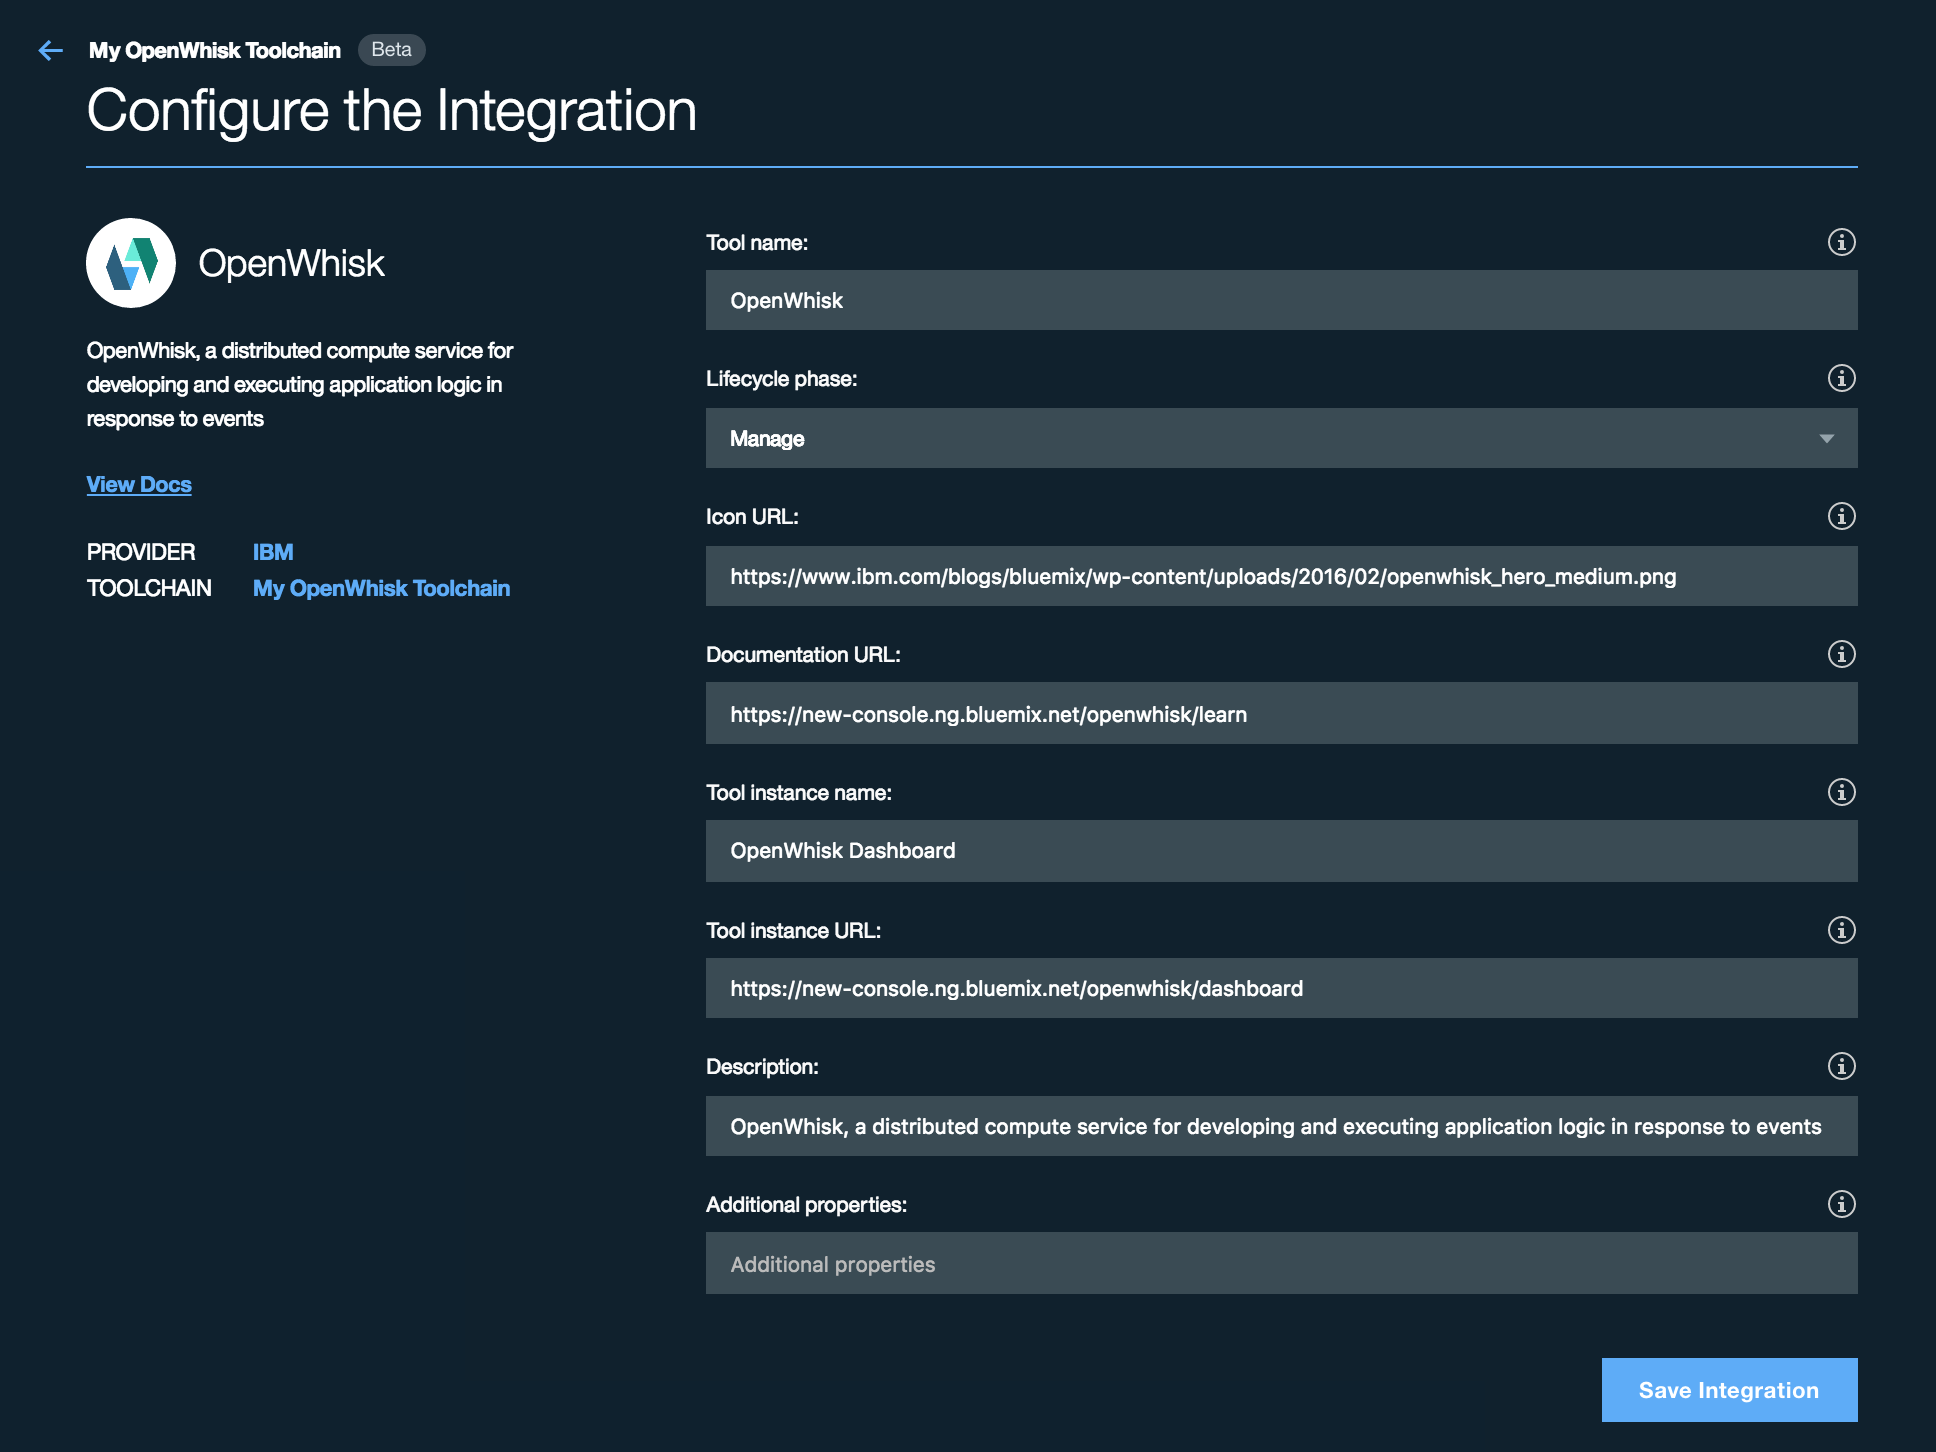
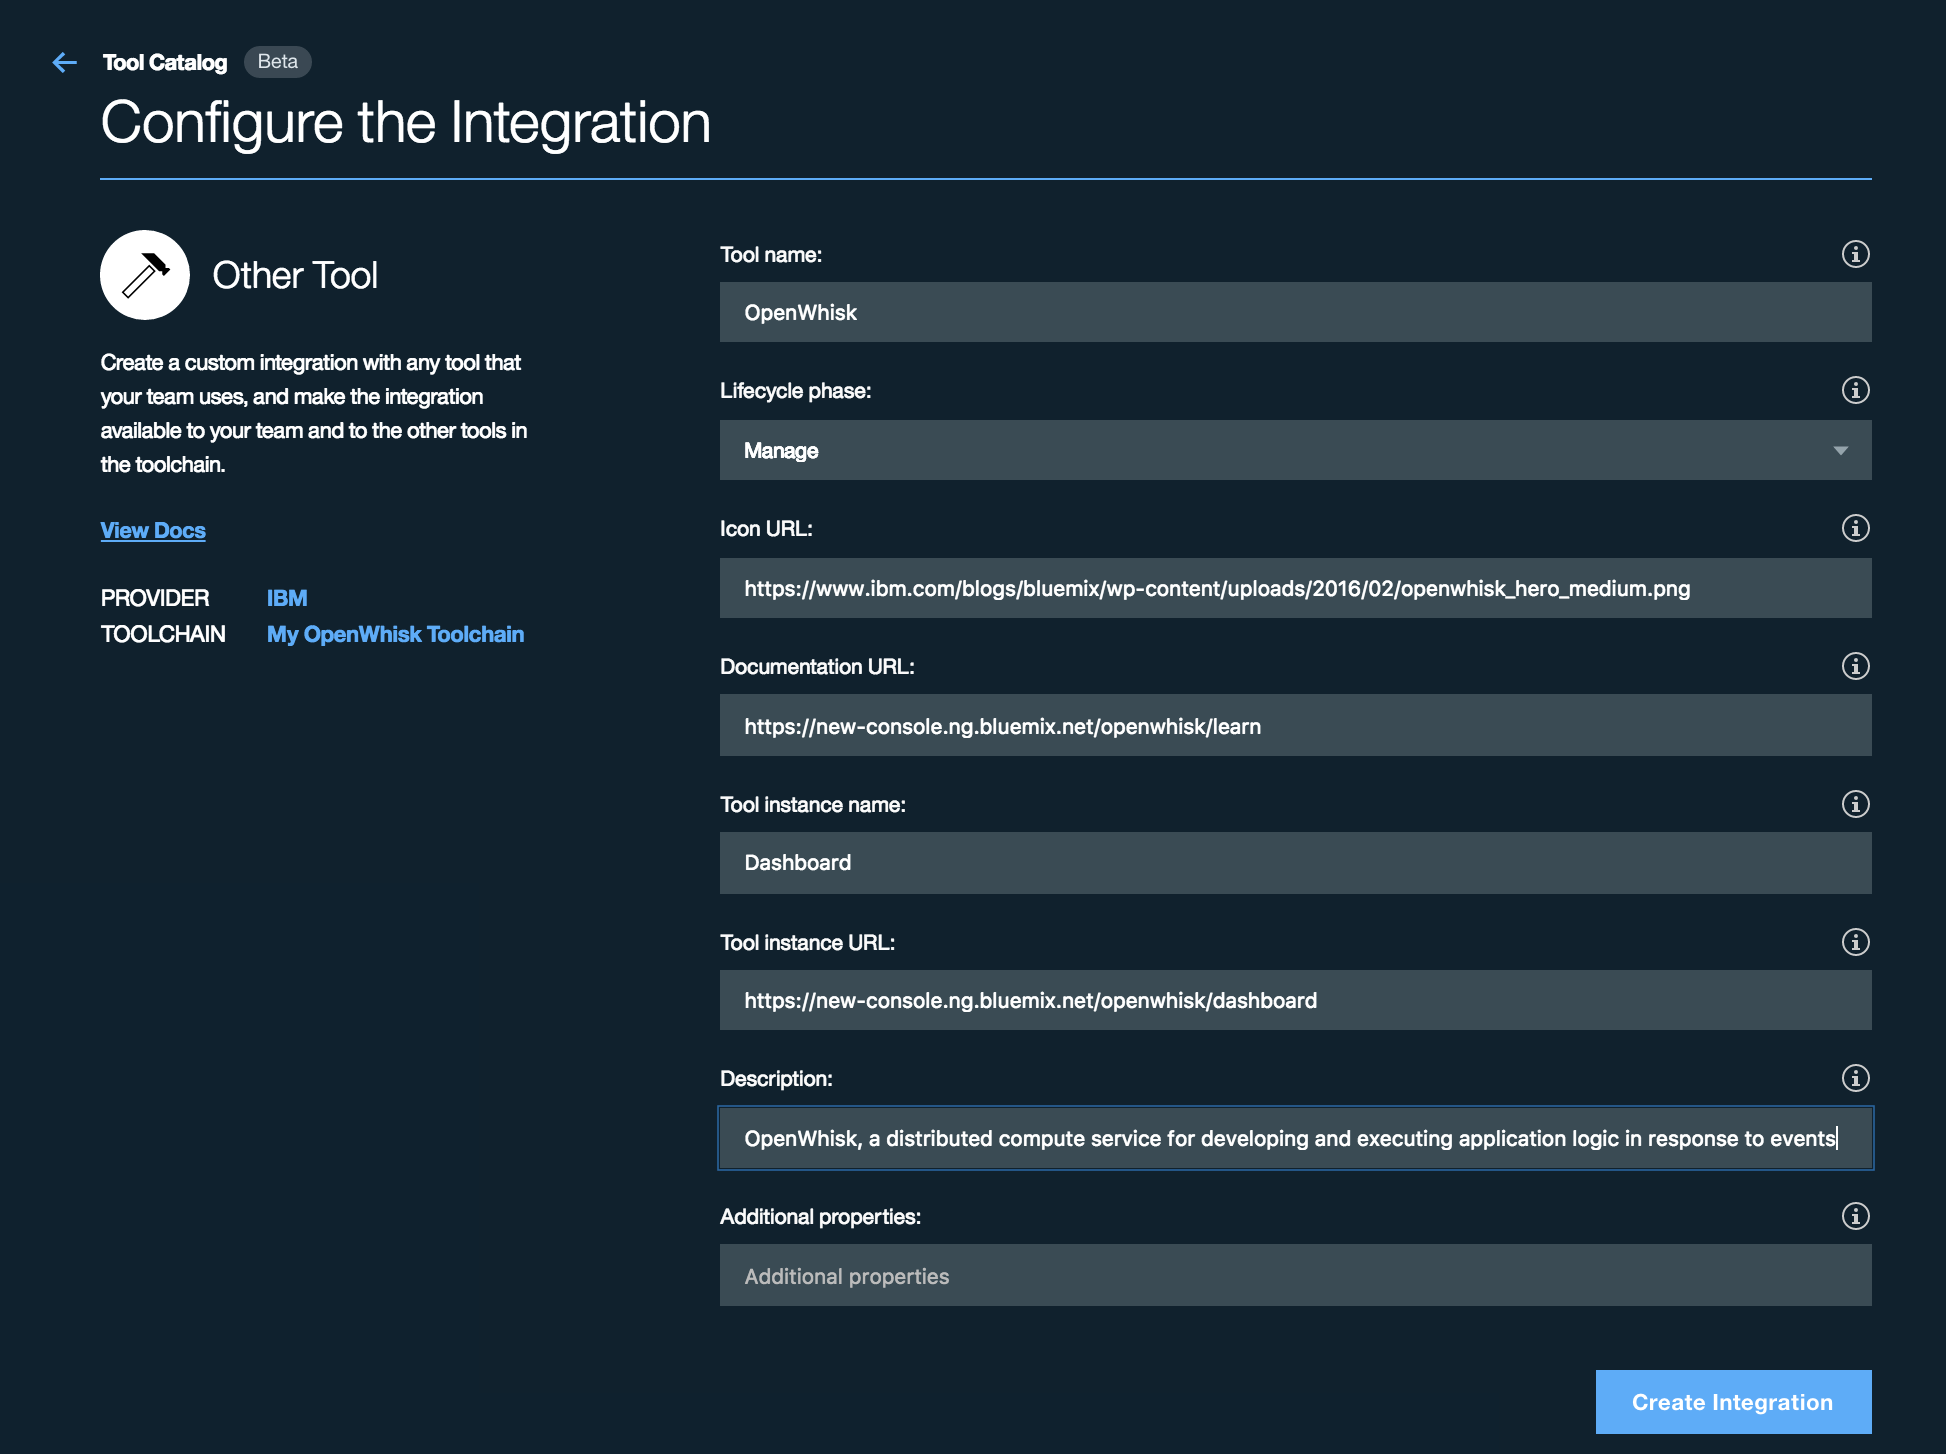
new new edits

diff --git a/developerworks-blog/custom-tool-integration.md b/developerworks-blog/custom-tool-integration.md
@@ -2,13 +2,13 @@
 
 As the development lead for Bluemix toolchain templates, I'm on the front line working with our technical sales and developer advocate teams regularly. Their goal is to develop new tool combinations to illustrate various DevOps practices and my goal is to make sure that toolchains meet those needs.
 
-Toolchains come with out-of-the-box support for a number of common third-party tools like GitHub and Slack. Toolchains also support more specialized Bluemix tools, like Delivery Pipeline, that help deploy your applications. The list of out-of-the-box tools that toolchains support is growing rapidly. However, when we integrate directly with a customer's environment, we always find new or custom tools that we need to integrate that are not in the toolchain catalog.
+Toolchains come with out-of-the-box support for a number of common third-party tools like GitHub and Slack. Toolchains also support more specialized Bluemix tools, like Delivery Pipeline, that help deploy your applications. The list of tools that toolchains support is growing rapidly. However, when we integrate directly with a customer's environment, we always find new tools that we need to integrate that are not in the toolchain catalog.
 
-We can go down the technical path and use the toolchain API to implement and contribute a tool broker, but we came up with a simpler approach that requires no coding or special hosting. If you only need to represent your tool visually on the toolchain and your initial tool integration needs are simple, the new custom tool integration is your best bet. The toolchain catalog includes a special catch-all integration called "Other Tool." 
+To integrate a new tool, we can go down the technical path and use the toolchain API to implement and contribute a tool broker, but there is a simpler approach that requires no coding or special hosting. If you only need to represent your tool visually on the toolchain and your initial tool integration needs are simple, using the custom tool integration is your best bet. This is surfaced in the toolchain catalog as a special catch-all integration called "Other Tool." 
 
-I'll demonstrate the "Other Tool" option to add one of my favorite tools, OpenWhisk, to a toolchain.
+I'll demonstrate the "Other Tool" option to add one of my favorite tools, [OpenWhisk](https://new-console.ng.bluemix.net/openwhisk/), to a toolchain.
 
-Let's go to [Bluemix Devops](https://new-console.ng.bluemix.net/devops/). If this is your first visit, I recommend that you take a quick look at the [Toolchain Getting Started](https://console.ng.bluemix.net/docs/toolchains/toolchains_overview.html) documentation.  
+To get started, go to [Bluemix Devops](https://new-console.ng.bluemix.net/devops/). If this is your first visit, I recommend that you take a quick look at the [Toolchain Getting Started](https://console.ng.bluemix.net/docs/toolchains/toolchains_overview.html) documentation.  
 
 Let's create an empty toolchain to try this out.
 
@@ -17,6 +17,13 @@ Let's create an empty toolchain to try this out.
 1. On the next screen,  ive your toolchain a clever name like "My OpenWhisk Toolchain" and click **Create**.
 1. After your toolchain is created, add our custom tool by clicking **[+]** and select **Other Tool**.
 
-Fill it in as follows:
-![](OpenWhisk-CTI.png)
+Fill the form as follows or however it makes sense for your custom tool. When done, click **Create Integration**.
+![custom tool integration form for OpenWhisk](OpenWhisk-CTI.png)
+
+The result is that you end up with a new tool card that represents this new custom integration on your toolchain.
+![toolchain with cusom tool](toolchain-CTI.png)
+
+This example showed the absolute simplest type of tool integration that's possible and is primarily used to provide basic visual cues that a tool is present in a particular toolchain. In terms of functionality this integration is little more than a glorified bookmark.
+
+When creating this custom tool we left the field **Additional properties** blank. This field contains free-form text and can be used as the basis of some pretty powerful yet simple tool integrations -- the topic of my next post.
 
